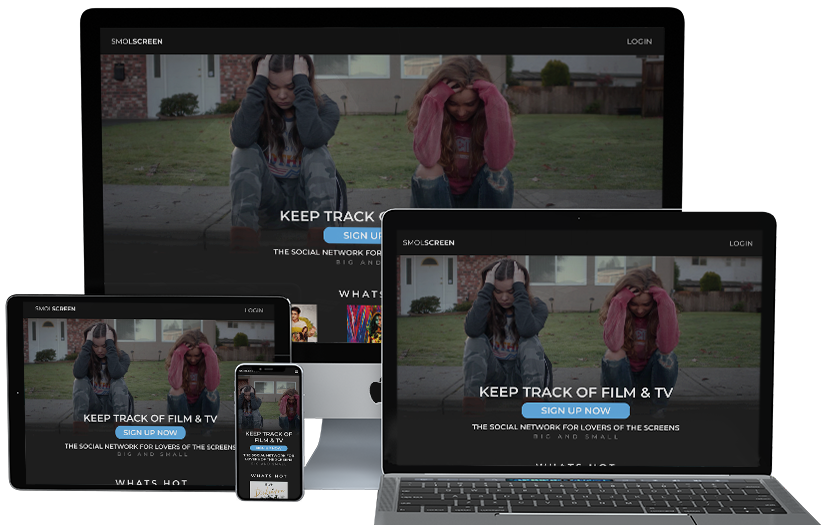
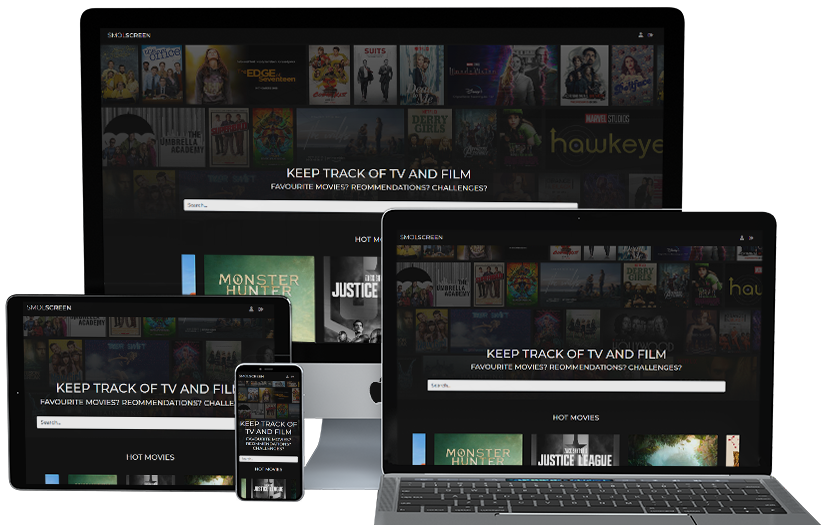
Portfolio on Homepage Updated

diff --git a/index.html b/index.html
@@ -185,7 +185,7 @@
         <div class="works-container">
           <div class="left-side">
             <img
-              src="/assets/img/Portfolio-Images/HammondMockup.png"
+              src="/assets/img/Portfolio-Images/SmolScreenMockup.png"
               alt=""
               class="works-image"
             />
@@ -194,6 +194,95 @@
           <div class="middle-col"></div>
 
           <div class="right-side">
+            <div class="work-details">
+              <h2>SmolScreen Web App (Complete)</h2>
+              <h3>Description:</h3>
+              <p>
+                This is a Full-Stack app I created that acts as a sort of clone
+                of the 'Letterboxd' website and app. Letterboxd is a sort of
+                social media that is used by film-fans to keep track of movies
+                they have seen, keep a wishlist and write reviews.
+              </p>
+              <p>
+                I started off creating the UI designs in Figma before moving to
+                development. These designs can be found on my Behance using the
+                link below.
+              </p>
+              <p>
+                For development, I created the web app using the Python
+                framework Django. I also used Bootstrap for the development of
+                the front-end interface, which I customised. For the database of
+                the site I used PostgreSQL. For the movie data, I made use of
+                the Movie Database API.
+              </p>
+              <br />
+              <h3>Technologies Used:</h3>
+              <i class="bx bxl-django tooltip"
+                ><span class="tooltiptext">Django</span></i
+              >
+              <i class="bx bxl-python tooltip"
+                ><span class="tooltiptext">Python</span></i
+              >
+              <i class="bx bxl-html5 tooltip"
+                ><span class="tooltiptext">HTML5</span></i
+              >
+              <i class="bx bxl-css3 tooltip"
+                ><span class="tooltiptext">CSS3</span></i
+              >
+              <i class="bx bxl-javascript tooltip"
+                ><span class="tooltiptext">JavaScript</span></i
+              >
+              <i class="bx bxl-bootstrap tooltip"
+                ><span class="tooltiptext">Bootstrap</span></i
+              >
+              <br />
+              <br />
+              <br />
+              <p>
+                Note: Since the site is hosted on Heroku's free tier, load times
+                will likely be longer than usual.
+              </p>
+              <br />
+
+              <div class="work-btns">
+                <a
+                  href="https://www.behance.net/gallery/111522109/SmolScreen-Web-App-Design"
+                  >View Designs</a
+                >
+                &nbsp;&nbsp;&nbsp;&nbsp;&nbsp;&nbsp;&nbsp;&nbsp;
+                <a href="https://github.com/morganmcdnald/SmolScreen">View GitHub</a>
+                &nbsp;&nbsp;&nbsp;&nbsp;&nbsp;&nbsp;&nbsp;&nbsp;
+                <a href="http://smolscreen.herokuapp.com/">View Demo Site</a>
+              </div>
+            </div>
+          </div>
+        </div>
+        <br />
+        <br />
+        <br />
+        <br />
+        <br />
+        <br />
+        <hr />
+        <br />
+        <br />
+        <br />
+        <br />
+        <br />
+        <br />
+
+        <div class="works-container">
+          <div class="left-side-alt">
+            <img
+              src="/assets/img/Portfolio-Images/HammondMockup.png"
+              alt=""
+              class="works-image"
+            />
+          </div>
+
+          <div class="middle-col-hidden"></div>
+
+          <div class="left-side">
             <div class="work-details">
               <h2>Hammond Realty Web App (Complete)</h2>
               <h3>Description:</h3>
@@ -244,7 +333,10 @@
               <br />
 
               <div class="work-btns">
-                <a href="#">View Designs</a>
+                <a
+                  href="#"
+                  >View Designs</a
+                >
                 &nbsp;&nbsp;&nbsp;&nbsp;&nbsp;&nbsp;&nbsp;&nbsp;
                 <a href="https://github.com/morganmcdnald/HammondRealtyComplete"
                   >View GitHub</a
@@ -254,101 +346,12 @@
               </div>
             </div>
           </div>
-        </div>
-        <br />
-        <br />
-        <br />
-        <br />
-        <br />
-        <br />
-        <hr />
-        <br />
-        <br />
-        <br />
-        <br />
-        <br />
-        <br />
-
-        <div class="works-container">
-          <div class="left-side-alt">
-            <img
-              src="/assets/img/Portfolio-Images/SmolScreenMockup.png"
-              alt=""
-              class="works-image"
-            />
-          </div>
-
-          <div class="middle-col-hidden"></div>
-
-          <div class="left-side">
-            <div class="work-details">
-              <h2>SmolScreen Web App (In Progress)</h2>
-              <h3>Description:</h3>
-              <p>
-                This is a Full-Stack app I created that acts as a sort of clone
-                of the 'Letterboxd' website and app. Letterboxd is a sort of
-                social media that is used by film-fans to keep track of movies
-                they have seen, keep a wishlist and write reviews.
-              </p>
-              <p>
-                I started off creating the UI designs in Figma before moving to
-                development. These designs can be found on my Behance using the
-                link below.
-              </p>
-              <p>
-                For development, I created the web app using the Python
-                framework Django. I also used Bootstrap for the development of
-                the front-end interface, which I customised. For the database of
-                the site I used PostgreSQL. For the movie data, I made use of
-                the OMDB API.
-              </p>
-              <br />
-              <h3>Technologies Used:</h3>
-              <i class="bx bxl-django tooltip"
-                ><span class="tooltiptext">Django</span></i
-              >
-              <i class="bx bxl-python tooltip"
-                ><span class="tooltiptext">Python</span></i
-              >
-              <i class="bx bxl-html5 tooltip"
-                ><span class="tooltiptext">HTML5</span></i
-              >
-              <i class="bx bxl-css3 tooltip"
-                ><span class="tooltiptext">CSS3</span></i
-              >
-              <i class="bx bxl-javascript tooltip"
-                ><span class="tooltiptext">JavaScript</span></i
-              >
-              <i class="bx bxl-bootstrap tooltip"
-                ><span class="tooltiptext">Bootstrap</span></i
-              >
-              <br />
-              <br />
-              <br />
-              <p>
-                Note: Since the site is hosted on Heroku's free tier, load times
-                will likely be longer than usual.
-              </p>
-              <br />
-
-              <div class="work-btns">
-                <a
-                  href="https://www.behance.net/gallery/111522109/SmolScreen-Web-App-Design"
-                  >View Designs</a
-                >
-                &nbsp;&nbsp;&nbsp;&nbsp;&nbsp;&nbsp;&nbsp;&nbsp;
-                <a href="#">View GitHub</a>
-                &nbsp;&nbsp;&nbsp;&nbsp;&nbsp;&nbsp;&nbsp;&nbsp;
-                <a href="#">View Demo Site</a>
-              </div>
-            </div>
-          </div>
 
           <div class="middle-col-alt"></div>
 
           <div class="right-side-alt">
             <img
-              src="/assets/img/Portfolio-Images/SmolScreenMockup.png"
+              src="/assets/img/Portfolio-Images/HammondMockup.png"
               alt=""
               class="works-image"
             />
